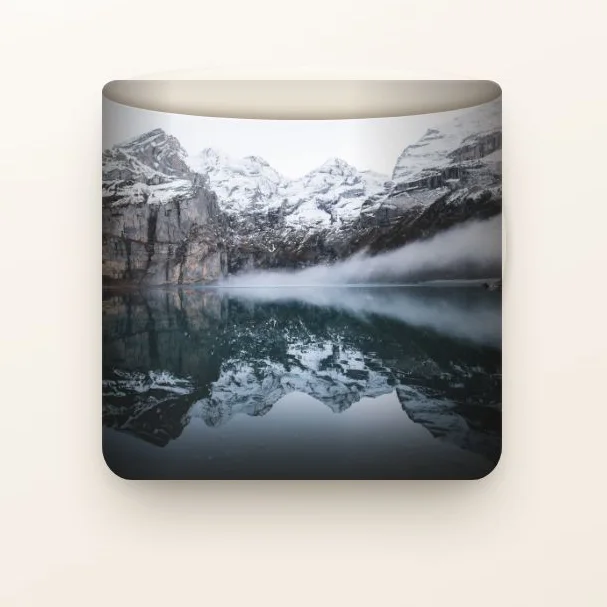
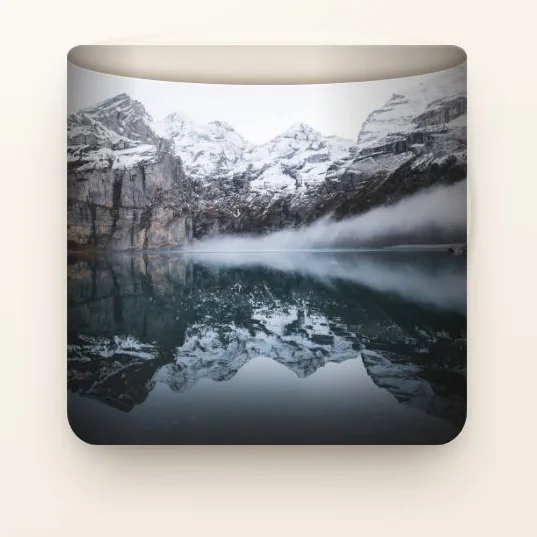
Square the media boxes and go back to the tight crops
Two corrections measured, not guessed:
1. The 18% pad left 31-54% near-white in frame. The real constraint was the
   BOX, not the product: a 4/3.1 frame cover-crops 11.25% off the top and
   bottom of a square source, which is why the padding had to be generous.
2. So square the media boxes instead. With a square frame and a square source,
   cover crops nothing at all, and the padding can drop back to 10% with zero
   risk of slicing the product.

Applied to the tile grid, the hero and the display wall.

diff --git a/index.html b/index.html
@@ -175,7 +175,7 @@
             </div>
           </div>
           <figure class="hero-media">
-            <picture><source type="image/webp" srcset="img/photobook.webp"><img src="img/photobook.jpg" alt="Hardcover photo book with a printed photograph" width="898" height="898" decoding="async"></picture>
+            <picture><source type="image/webp" srcset="img/photobook.webp"><img src="img/photobook.jpg" alt="Hardcover photo book with a printed photograph" width="792" height="792" decoding="async"></picture>
           </figure>
         </div>
       </article>
@@ -192,7 +192,7 @@
             </div>
           </div>
           <figure class="hero-media">
-            <picture><source type="image/webp" srcset="img/canvas.webp"><img src="img/canvas.jpg" alt="Gallery-wrapped canvas print on a wall" width="1024" height="1024" decoding="async"></picture>
+            <picture><source type="image/webp" srcset="img/canvas.webp"><img src="img/canvas.jpg" alt="Gallery-wrapped canvas print on a wall" width="957" height="957" decoding="async"></picture>
           </figure>
         </div>
       </article>
@@ -209,7 +209,7 @@
             </div>
           </div>
           <figure class="hero-media">
-            <picture><source type="image/webp" srcset="img/calendar.webp"><img src="img/calendar.jpg" alt="Wall photo calendar with a printed photograph" width="817" height="817" decoding="async"></picture>
+            <picture><source type="image/webp" srcset="img/calendar.webp"><img src="img/calendar.jpg" alt="Wall photo calendar with a printed photograph" width="721" height="721" decoding="async"></picture>
           </figure>
         </div>
       </article>
@@ -254,7 +254,7 @@
     <div class="wrap">
       <div class="bento">
       <a class="tile tile-big reveal reveal-scale accent-green" href="https://wa.me/358442715477?text=Hello%20Feven%27s%20Prints%20-%20I%27d%20like%20to%20order%20a%20canvas%20print." target="_blank" rel="noopener">
-        <figure class="tile-media"><picture><source type="image/webp" srcset="img/canvas.webp"><img src="img/canvas.jpg" alt="Framed canvas print of a family portrait in a living room" width="1024" height="1024" loading="lazy" decoding="async"></picture></figure>
+        <figure class="tile-media"><picture><source type="image/webp" srcset="img/canvas.webp"><img src="img/canvas.jpg" alt="Framed canvas print of a family portrait in a living room" width="957" height="957" loading="lazy" decoding="async"></picture></figure>
         <div class="tile-cap">
           <h3 data-en="Canvas prints" data-am="የካንቫስ ህትመት">Canvas prints</h3>
           <p data-en="Gallery-wrapped canvas, every size up to 120 cm." data-am="እስከ 120 ሳ.ሜ ድረስ በሁሉም መጠን።">Gallery-wrapped canvas, every size up to 120 cm.</p>
@@ -262,7 +262,7 @@
         </div>
       </a>
       <a class="tile tile-tall reveal reveal-scale accent-red" href="https://wa.me/358442715477?text=Hello%20Feven%27s%20Prints%20-%20I%27d%20like%20to%20order%20a%20photo%20book." target="_blank" rel="noopener">
-        <figure class="tile-media"><picture><source type="image/webp" srcset="img/photobook.webp"><img src="img/photobook.jpg" alt="Stack of premium photo books on a wooden desk" width="898" height="898" loading="lazy" decoding="async"></picture></figure>
+        <figure class="tile-media"><picture><source type="image/webp" srcset="img/photobook.webp"><img src="img/photobook.jpg" alt="Stack of premium photo books on a wooden desk" width="792" height="792" loading="lazy" decoding="async"></picture></figure>
         <div class="tile-cap">
           <h3 data-en="Photo books" data-am="የፎቶ መጽሐፍ">Photo books</h3>
           <p data-en="Hardcover and softcover, 20 to 80 pages." data-am="ከ20 እስከ 80 ገጽ።">Hardcover and softcover, 20 to 80 pages.</p>
@@ -270,7 +270,7 @@
         </div>
       </a>
       <a class="tile reveal reveal-scale accent-yellow" href="https://wa.me/358442715477?text=Hello%20Feven%27s%20Prints%20-%20I%27d%20like%20to%20order%20a%20wall%20calendar." target="_blank" rel="noopener">
-        <figure class="tile-media"><picture><source type="image/webp" srcset="img/calendar.webp"><img src="img/calendar.jpg" alt="Wall calendar with scenic photography pages" width="817" height="817" loading="lazy" decoding="async"></picture></figure>
+        <figure class="tile-media"><picture><source type="image/webp" srcset="img/calendar.webp"><img src="img/calendar.jpg" alt="Wall calendar with scenic photography pages" width="721" height="721" loading="lazy" decoding="async"></picture></figure>
         <div class="tile-cap">
           <h3 data-en="Wall calendars" data-am="የግድግዳ የቀን መቁጠሪያ">Wall calendars</h3>
           <p data-en="Your photos, all twelve months." data-am="ፎቶዎችዎ ለ12 ወራት።">Your photos, all twelve months.</p>
@@ -278,7 +278,7 @@
         </div>
       </a>
       <a class="tile reveal reveal-scale accent-green" href="https://wa.me/358442715477?text=Hello%20Feven%27s%20Prints%20-%20I%27d%20like%20to%20order%20a%20photo%20mug." target="_blank" rel="noopener">
-        <figure class="tile-media"><picture><source type="image/webp" srcset="img/mug.webp"><img src="img/mug.jpg" alt="White ceramic mug printed with a family photo" width="607" height="607" loading="lazy" decoding="async"></picture></figure>
+        <figure class="tile-media"><picture><source type="image/webp" srcset="img/mug.webp"><img src="img/mug.jpg" alt="White ceramic mug printed with a family photo" width="537" height="537" loading="lazy" decoding="async"></picture></figure>
         <div class="tile-cap">
           <h3 data-en="Photo mugs" data-am="የፎቶ ሙግ">Photo mugs</h3>
           <p data-en="A daily reminder, dishwasher safe." data-am="ለዕለታዊ አገልግሎት የሚመች።">A daily reminder, dishwasher safe.</p>
@@ -286,7 +286,7 @@
         </div>
       </a>
       <a class="tile reveal reveal-scale accent-red" href="https://wa.me/358442715477?text=Hello%20Feven%27s%20Prints%20-%20I%27d%20like%20to%20order%20a%20framed%20print." target="_blank" rel="noopener">
-        <figure class="tile-media"><picture><source type="image/webp" srcset="img/frames.webp"><img src="img/frames.jpg" alt="Gallery wall of framed photo prints in mixed sizes" width="1019" height="1019" loading="lazy" decoding="async"></picture></figure>
+        <figure class="tile-media"><picture><source type="image/webp" srcset="img/frames.webp"><img src="img/frames.jpg" alt="Gallery wall of framed photo prints in mixed sizes" width="899" height="899" loading="lazy" decoding="async"></picture></figure>
         <div class="tile-cap">
           <h3 data-en="Framed prints" data-am="የተከፈፈ ህትመት">Framed prints</h3>
           <p data-en="Ready-to-hang, classic and modern frames." data-am="ለመስቀል ዝግጁ የሆኑ ክፈፎች።">Ready-to-hang, classic and modern frames.</p>
@@ -666,11 +666,11 @@
         <p class="wall-note reveal" data-en="A rough idea of how a print sits on a wall, and how big each size feels. Send us a photo of your wall and we will show you properly." data-am="የእያንዳንዱ ህትመት መጠን በግድግዳ ላይ እንዴት እንደሚታይ ግምት። የግድግዳዎን ፎቶ ይላኩልን፣ እኛ በትክክል እናሳያለን።">A rough idea of how a print sits on a wall, and how big each size feels. Send us a photo of your wall and we will show you properly.</p>
     <div class="wall-stage">
       <figure class="hung hung-a reveal reveal-scale accent-green">
-        <picture><source type="image/webp" srcset="img/canvas.webp"><img src="img/canvas.jpg" alt="Large canvas print hung on a wall" width="1024" height="1024" loading="lazy" decoding="async"></picture>
+        <picture><source type="image/webp" srcset="img/canvas.webp"><img src="img/canvas.jpg" alt="Large canvas print hung on a wall" width="957" height="957" loading="lazy" decoding="async"></picture>
         <figcaption><span data-en="Canvas print" data-am="የካንቫስ ህትመት">Canvas print</span><em data-en="60 × 80 cm" data-am="60 × 80 ሳ.ሜ">60 × 80 cm</em></figcaption>
       </figure>
       <figure class="hung hung-b reveal reveal-scale accent-red">
-        <picture><source type="image/webp" srcset="img/frames.webp"><img src="img/frames.jpg" alt="Set of framed prints hung together" width="1019" height="1019" loading="lazy" decoding="async"></picture>
+        <picture><source type="image/webp" srcset="img/frames.webp"><img src="img/frames.jpg" alt="Set of framed prints hung together" width="899" height="899" loading="lazy" decoding="async"></picture>
         <figcaption><span data-en="Framed set" data-am="የተከፈፉ ህትመቶች">Framed set</span><em data-en="from 30 × 40 cm" data-am="ከ30 × 40 ሳ.ሜ">from 30 × 40 cm</em></figcaption>
       </figure>
       <figure class="hung hung-c reveal reveal-scale accent-yellow">

diff --git a/css/style.css b/css/style.css
@@ -236,8 +236,11 @@ ul { margin: 0; padding: 0; list-style: none; }
 .tile-media { margin: 0; overflow: hidden; background: var(--paper-2);
   border: 1px solid var(--line-strong);
   border-color: color-mix(in srgb, var(--accent) 40%, var(--line-strong)); }
-.tile-big .tile-media, .tile-tall .tile-media { aspect-ratio: 4 / 3.1; }
-.tile:not(.tile-big):not(.tile-tall):not(.tile-wide) .tile-media { aspect-ratio: 1 / 0.92; }
+/* square media: the source crops are square, so a square frame shows the
+   whole crop with no cover-slicing at either edge - which is what lets the
+   product padding stay small. */
+.tile-big .tile-media, .tile-tall .tile-media { aspect-ratio: 1 / 1; }
+.tile:not(.tile-big):not(.tile-tall):not(.tile-wide) .tile-media { aspect-ratio: 1 / 1; }
 .tile-media img { width: 100%; height: 100%; object-fit: cover; transition: transform 700ms var(--ease-out); }
 .tile-media-side { flex: 0 0 42%; aspect-ratio: auto; }
 .tile-media-side img { height: 100%; }
@@ -283,9 +286,9 @@ ul { margin: 0; padding: 0; list-style: none; }
 .hung figcaption em { font-style: normal; font-size: 12.5px; font-weight: 600;
   color: var(--text-mute); font-variant-numeric: tabular-nums; }
 .hung-a { grid-column: span 5; rotate: -1.2deg; }
-.hung-a picture { aspect-ratio: 4 / 3; }
+.hung-a picture { aspect-ratio: 1 / 1; }
 .hung-b { grid-column: span 4; translate: 0 30px; rotate: 1.1deg; }
-.hung-b picture { aspect-ratio: 4 / 5; }
+.hung-b picture { aspect-ratio: 1 / 1; }
 .hung-c { grid-column: span 3; translate: 0 -10px; rotate: -1.6deg; }
 .hung-c picture { aspect-ratio: 1 / 1; }
 @media (hover: hover) and (pointer: fine) {
